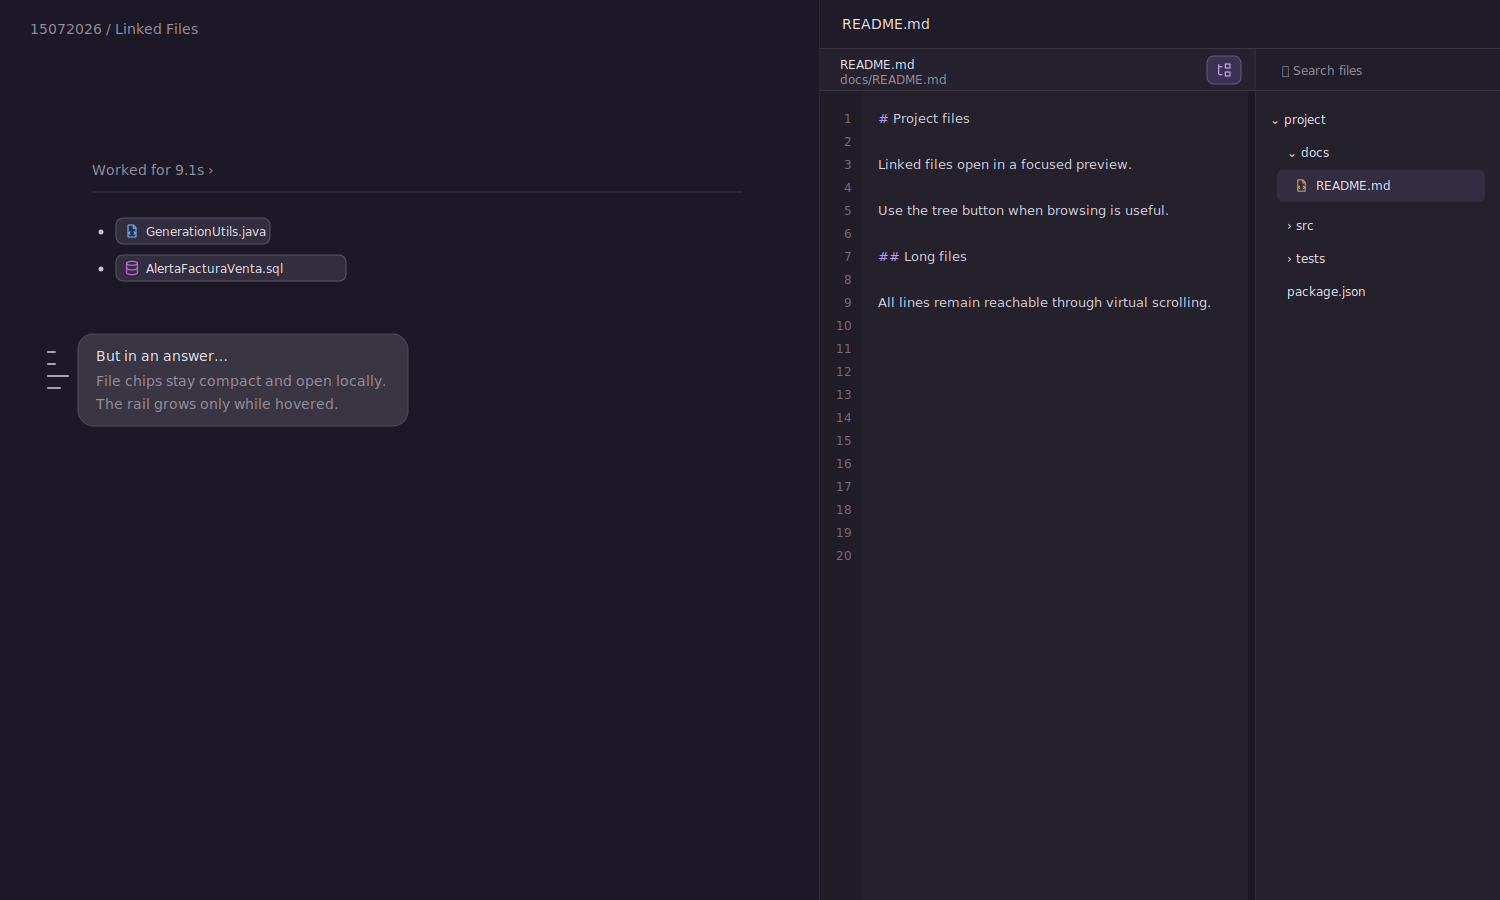
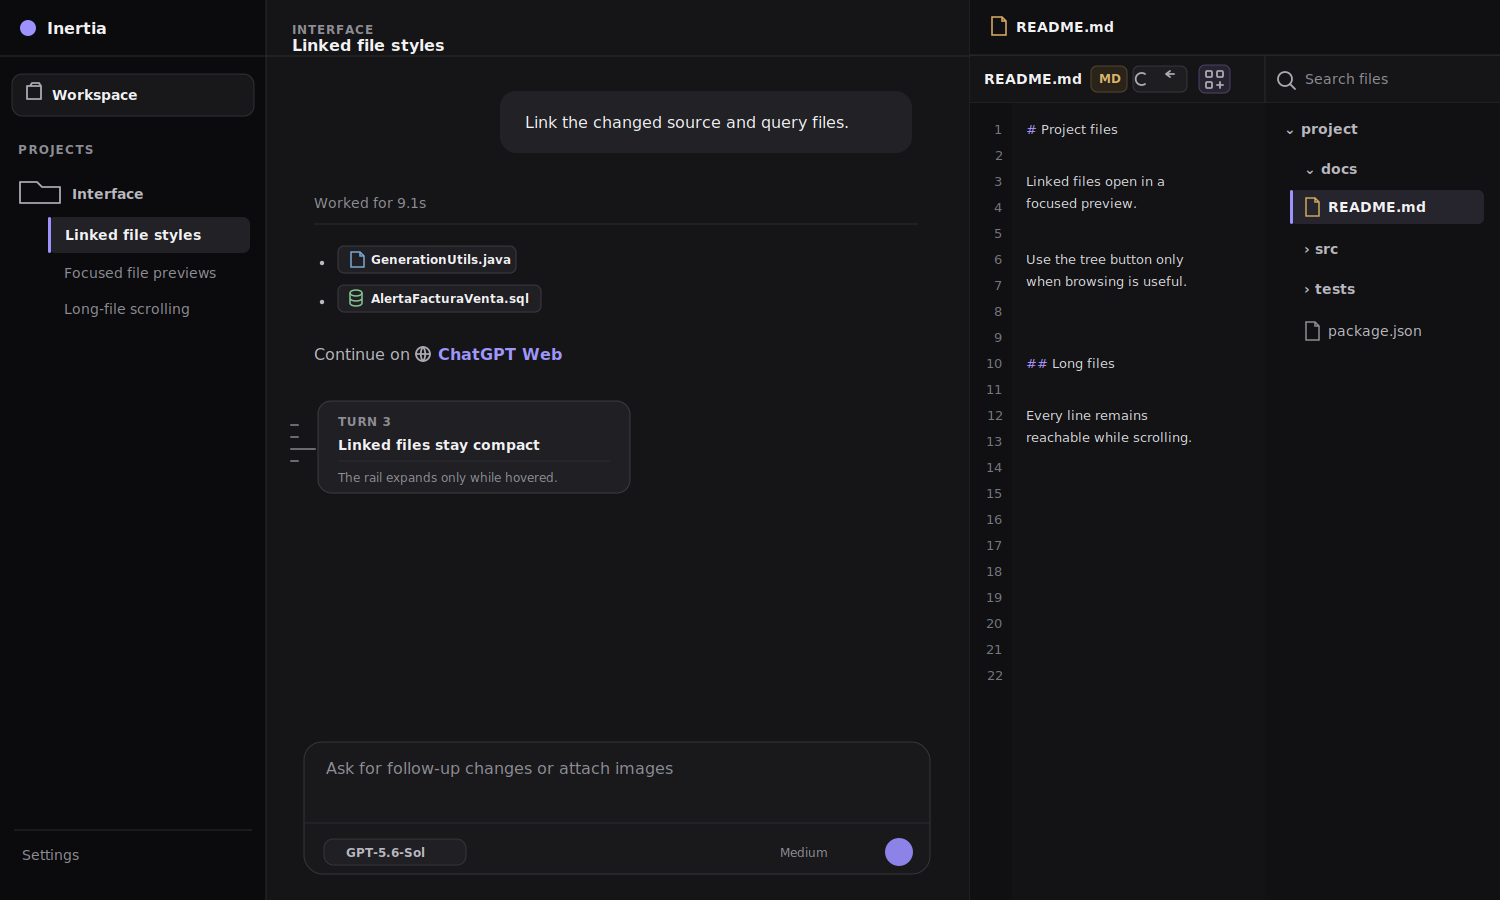
fix: refine file preview layout

diff --git a/src/renderer/src/components/FilesPanel.tsx b/src/renderer/src/components/FilesPanel.tsx
@@ -1036,82 +1036,86 @@ export function FilesPanel({
                 : "Project files"}</strong>
               <span>{preview?.path ?? selectedPath ?? countLabel}</span>
             </div>
-            {previewLanguage && (
-              <span
-                className={FILE_LANGUAGE_CLASS}
-                data-language-family={previewLanguage.family}
-                title={`${previewLanguage.label} recognized locally`}
-              >
-                {previewLanguage.label}
-              </span>
-            )}
-            {selectedLocation && (
-              <span className="file-location">
-                {workspaceFileLocationLabel(selectedLocation)}
-              </span>
-            )}
-            {markdownPreview && preview && (
-              <div
-                className={`${FILE_PREVIEW_CLASS}-view-toggle`}
-                role="group"
-                aria-label="Markdown"
-              >
-                <button
-                  type="button"
-                  aria-pressed={renderedMarkdownPreview}
-                  disabled={markdownPreviewBlockedReason !== null}
-                  title={markdownPreviewBlockedReason ?? "Preview"}
-                  onClick={() => setPreviewViewState({
-                    identity: previewViewIdentity,
-                    view: "preview",
-                  })}
+            <div className={`${FILE_PREVIEW_CLASS}-metadata`}>
+              {previewLanguage && (
+                <span
+                  className={FILE_LANGUAGE_CLASS}
+                  data-language-family={previewLanguage.family}
+                  title={`${previewLanguage.label} recognized locally`}
                 >
-                  <Eye size={11} aria-hidden="true" />
-                  <span>Preview</span>
-                </button>
-                <button
-                  type="button"
-                  aria-pressed={!renderedMarkdownPreview}
-                  title="Source"
-                  onClick={() => setPreviewViewState({
-                    identity: previewViewIdentity,
-                    view: "source",
-                  })}
+                  {previewLanguage.label}
+                </span>
+              )}
+              {selectedLocation && (
+                <span className="file-location">
+                  {workspaceFileLocationLabel(selectedLocation)}
+                </span>
+              )}
+            </div>
+            <div className={`${FILE_PREVIEW_CLASS}-actions`}>
+              {markdownPreview && preview && (
+                <div
+                  className={`${FILE_PREVIEW_CLASS}-view-toggle`}
+                  role="group"
+                  aria-label="Markdown"
                 >
-                  <Code2 size={11} aria-hidden="true" />
-                  <span>Source</span>
-                </button>
-              </div>
-            )}
-            {preview && onSaveFile && (
+                  <button
+                    type="button"
+                    aria-pressed={renderedMarkdownPreview}
+                    disabled={markdownPreviewBlockedReason !== null}
+                    title={markdownPreviewBlockedReason ?? "Preview"}
+                    onClick={() => setPreviewViewState({
+                      identity: previewViewIdentity,
+                      view: "preview",
+                    })}
+                  >
+                    <Eye size={11} aria-hidden="true" />
+                    <span>Preview</span>
+                  </button>
+                  <button
+                    type="button"
+                    aria-pressed={!renderedMarkdownPreview}
+                    title="Source"
+                    onClick={() => setPreviewViewState({
+                      identity: previewViewIdentity,
+                      view: "source",
+                    })}
+                  >
+                    <Code2 size={11} aria-hidden="true" />
+                    <span>Source</span>
+                  </button>
+                </div>
+              )}
+              {preview && onSaveFile && (
+                <IconButton
+                  label={previewEditable
+                    ? `Edit ${preview.path}`
+                    : `${preview.path} is too large to edit`}
+                  disabled={!previewEditable}
+                  onClick={() => setEditingFile(preview)}
+                >
+                  <Pencil size={14} />
+                </IconButton>
+              )}
+              {preview && onOpenFile && (
+                <IconButton
+                  label="Open file"
+                  onClick={() => onOpenFile(preview.path)}
+                >
+                  <ExternalLink size={14} />
+                </IconButton>
+              )}
               <IconButton
-                label={previewEditable
-                  ? `Edit ${preview.path}`
-                  : `${preview.path} is too large to edit`}
-                disabled={!previewEditable}
-                onClick={() => setEditingFile(preview)}
+                label={fileExplorerOpen
+                  ? "Hide file explorer"
+                  : "Show file explorer"}
+                aria-pressed={fileExplorerOpen}
+                className="file-explorer-toggle"
+                onClick={() => setFileExplorerOpen(!fileExplorerOpen)}
               >
-                <Pencil size={14} />
+                <FolderTree size={14} />
               </IconButton>
-            )}
-            {preview && onOpenFile && (
-              <IconButton
-                label="Open file"
-                onClick={() => onOpenFile(preview.path)}
-              >
-                <ExternalLink size={14} />
-              </IconButton>
-            )}
-            <IconButton
-              label={fileExplorerOpen
-                ? "Hide file explorer"
-                : "Show file explorer"}
-              aria-pressed={fileExplorerOpen}
-              className="file-explorer-toggle"
-              onClick={() => setFileExplorerOpen(!fileExplorerOpen)}
-            >
-              <FolderTree size={14} />
-            </IconButton>
+            </div>
           </header>
           {previewLoading && selectedPath ? (
             <div className={PANEL_LOADING_CLASS} role="status" aria-live="polite">

diff --git a/src/renderer/src/styles.css b/src/renderer/src/styles.css
@@ -7031,6 +7031,7 @@ button.environment-row:focus-visible,
 }
 
 .changes-diff { container-type: inline-size; }
+.file-preview { container: file-preview / inline-size; }
 
 .diff-code,
 .file-preview-code {
@@ -7280,7 +7281,7 @@ button.environment-row:focus-visible,
   bottom: 0;
   z-index: 1;
 }
-.file-preview-header { display: flex; min-height: 39px; align-items: center; justify-content: space-between; gap: 6px 8px; padding: 5px 10px; border-bottom: 1px solid var(--border); }
+.file-preview-header { display: flex; min-width: 0; min-height: 39px; align-items: center; gap: 6px; padding: 5px 8px 5px 10px; border-bottom: 1px solid var(--border); }
 .file-explorer-toggle[aria-pressed="true"] {
   color: var(--accent-strong);
   background: var(--accent-soft);
@@ -7288,6 +7289,17 @@ button.environment-row:focus-visible,
 .file-preview-identity { display: flex; min-width: 0; flex: 1 1 120px; flex-direction: column; gap: 1px; }
 .file-preview-header strong { font-size: 9px; }
 .file-preview-header span { overflow: hidden; color: var(--text-muted); font-size: 7.5px; text-overflow: ellipsis; white-space: nowrap; }
+.file-preview-metadata,
+.file-preview-actions {
+  display: flex;
+  min-width: 0;
+  flex: 0 0 auto;
+  align-items: center;
+}
+.file-preview-metadata { gap: 5px; }
+.file-preview-actions { gap: 1px; margin-left: auto; }
+.file-preview-actions > .icon-button { width: 27px; height: 27px; }
+.file-preview-metadata .file-location { max-width: 92px; }
 .file-preview-view-toggle {
   display: flex;
   min-width: max-content;
@@ -7399,6 +7411,25 @@ button.environment-row:focus-visible,
   background: color-mix(in srgb, var(--file-language-accent, var(--text-muted)) 8%, var(--surface));
 }
 .file-location { color: var(--accent-strong) !important; }
+
+@container file-preview (max-width: 370px) {
+  .file-preview-header { gap: 4px; padding-inline: 8px 6px; }
+  .file-preview-identity > span { display: none; }
+  .file-preview-metadata .file-location { max-width: 72px; }
+  .file-preview-actions { gap: 0; }
+  .file-preview-actions > .icon-button { width: 25px; height: 25px; }
+  .file-preview-view-toggle button {
+    width: 25px;
+    min-height: 23px;
+    justify-content: center;
+    padding: 0;
+  }
+  .file-preview-view-toggle button span { display: none; }
+}
+
+@container file-preview (max-width: 275px) {
+  .file-preview-metadata { display: none; }
+}
 
 [data-language-family] { --file-language-accent: var(--text-muted); }
 [data-language-family="java"] { --file-language-accent: var(--language-java); }

diff --git a/tests/e2e/language-aware-files.spec.ts b/tests/e2e/language-aware-files.spec.ts
@@ -147,18 +147,24 @@ async function openExactJavaRange(opener: "code" | "link"): Promise<void> {
     const previewHeader = element.querySelector<HTMLElement>(
       ".file-preview-header",
     )?.getBoundingClientRect();
-    return search && tree && preview && previewHeader
+    const previewHeaderElement = element.querySelector<HTMLElement>(
+      ".file-preview-header",
+    );
+    return search && tree && preview && previewHeader && previewHeaderElement
       ? {
           browserColumnAligns: Math.abs(search.left - tree.left) <= 1
             && Math.abs(search.right - tree.right) <= 1,
           columnsMeet: Math.abs(preview.right - tree.left) <= 1,
           localHeadersAlign: Math.abs(search.top - previewHeader.top) <= 1,
+          previewHeaderFits: previewHeaderElement.scrollWidth
+            <= previewHeaderElement.clientWidth + 1,
         }
       : null;
   })).toEqual({
     browserColumnAligns: true,
     columnsMeet: true,
     localHeadersAlign: true,
+    previewHeaderFits: true,
   });
 }
 
@@ -325,7 +331,10 @@ test("opens a language-aware project link at its exact validated Java range", as
     const line = element.querySelector<HTMLElement>(
       '[data-source-line="41"]',
     )?.getBoundingClientRect();
-    return tree && selected && preview && line
+    const previewHeader = element.querySelector<HTMLElement>(
+      ".file-preview-header",
+    );
+    return tree && selected && preview && line && previewHeader
       ? {
           previewInside: preview.left >= panelBounds.left - 1
             && preview.right <= panelBounds.right + 1,
@@ -333,6 +342,8 @@ test("opens a language-aware project link at its exact validated Java range", as
             && line.bottom <= preview.bottom + 1,
           selectedFileVisible: selected.top >= tree.top - 1
             && selected.bottom <= tree.bottom + 1,
+          previewHeaderFits: previewHeader.scrollWidth
+            <= previewHeader.clientWidth + 1,
         }
       : null;
   });
@@ -340,6 +351,7 @@ test("opens a language-aware project link at its exact validated Java range", as
     previewInside: true,
     lineVisible: true,
     selectedFileVisible: true,
+    previewHeaderFits: true,
   });
 
   const previewCode = narrowPanel.getByLabel(

diff --git a/src/renderer/src/components/BeautifulUiMotion.css b/src/renderer/src/components/BeautifulUiMotion.css
@@ -419,16 +419,19 @@
 /* Shared by transcript and lazy file-preview Markdown; keep these styles deferred. */
 .response-markdown a.response-project-file-link {
   display: inline-flex;
-  height: 1.41em;
+  box-sizing: border-box;
+  height: 1.55em;
+  min-width: 0;
+  min-height: 18px;
   max-width: 100%;
   align-items: center;
-  gap: 0.33em;
-  padding: 0 0.5em;
-  border: 1px solid color-mix(in srgb, var(--border) 70%, transparent);
-  border-radius: 0.5em;
+  gap: 0.36em;
+  padding: 0 0.48em;
+  border: 1px solid var(--code-border);
+  border-radius: var(--radius-small);
   color: var(--text);
-  background: color-mix(in srgb, var(--accent) 10%, var(--surface));
-  font-size: 12px;
+  background: var(--inline-code-surface);
+  font-size: max(var(--ui-font-micro), 0.8em);
   font-weight: 560;
   line-height: 1;
   text-decoration: none;
@@ -440,7 +443,7 @@
 
 .response-markdown a.response-project-file-link:hover {
   border-color: color-mix(in srgb, var(--file-language-accent, var(--accent)) 30%, var(--border));
-  background: color-mix(in srgb, var(--accent) 16%, var(--surface));
+  background: var(--surface-hover);
   text-decoration: none;
 }
 
@@ -453,6 +456,8 @@
 
 .response-markdown a.response-project-file-link .response-project-file-icon {
   display: block;
+  width: 1em;
+  height: 1em;
   flex: 0 0 auto;
   margin: 0;
   color: var(--file-language-accent, var(--text-muted));
@@ -461,15 +466,13 @@
 }
 
 .response-markdown a.response-web-link {
-  display: inline-flex;
-  align-items: baseline;
-  gap: 0.22em;
+  display: inline;
 }
 
 .response-markdown a.response-web-link svg {
-  display: block;
-  flex: 0 0 auto;
-  align-self: center;
-  margin: 0;
-  vertical-align: initial;
+  display: inline;
+  width: 0.9em;
+  height: 0.9em;
+  margin: 0 0.24em 0 0;
+  vertical-align: -0.1em;
 }
